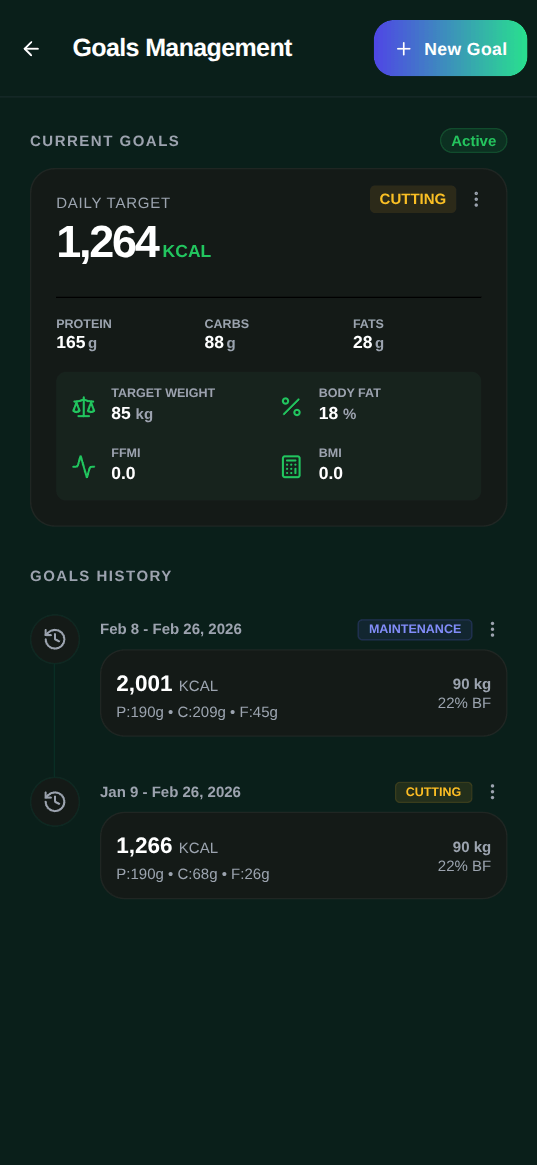
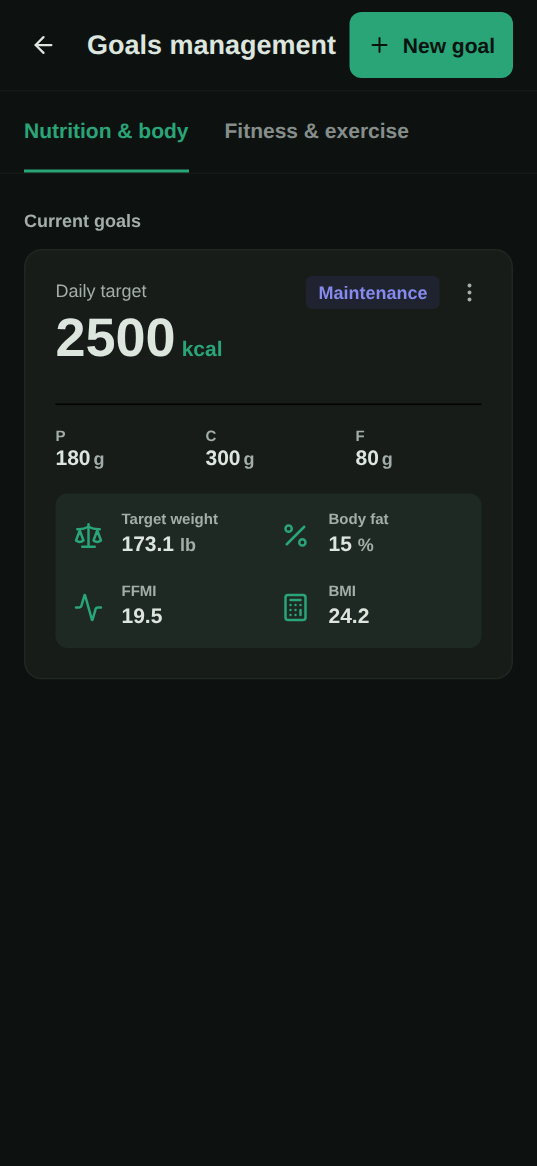
update screenshots

diff --git a/tests/website-carousel-screenshots.spec.ts b/tests/website-carousel-screenshots.spec.ts
@@ -57,9 +57,15 @@ test.describe('Website carousel screenshots', () => {
 
   test('Capture the carousel slides that need interaction', async ({ page }) => {
     const slides = [
+      'screenshot-4.png',
       'screenshot-5.png',
+      'screenshot-6.png',
+      'screenshot-7.png',
       'screenshot-8.png',
+      'screenshot-9.png',
       'screenshot-10.png',
+      'screenshot-11.png',
+      'screenshot-12.png',
       'screenshot-13.png',
       'screenshot-14.png',
     ];
@@ -81,6 +87,18 @@ test.describe('Website carousel screenshots', () => {
     await seedDemoData(page);
     await selectTheme(page, DEFAULT_THEME_BY_MODE.dark);
 
+    // "How do you want to build your routine?", the Create workout options.
+    if (wanted('screenshot-4.png')) {
+      await openFixtureModal('Open Create Workout Options');
+      await page
+        .getByText(copy('workouts', ['workouts', 'createWorkoutOptionsModal', 'title']), {
+          exact: true,
+        })
+        .first()
+        .waitFor();
+      await shot('screenshot-4.png', 2000);
+    }
+
     // Body metrics: Profile → Current stats → History (the weight trend and its entries).
     if (wanted('screenshot-5.png')) {
       await navigateTo(page, `${APP_URL}/profile`);
@@ -90,6 +108,22 @@ test.describe('Website carousel screenshots', () => {
         .first()
         .waitFor();
       await shot('screenshot-5.png', 2500);
+    }
+
+    // Goals management, opened from the day summary's menu on the food diary.
+    if (wanted('screenshot-6.png')) {
+      await navigateTo(page, `${APP_URL}/nutrition/food`);
+      await clickTopmost(page.getByTestId('daily-summary-menu'));
+      await clickTopmost(
+        page.getByText(copy('settings', ['settings', 'advancedSettings', 'manageGoalsData']), {
+          exact: true,
+        })
+      );
+      await page
+        .getByText(copy('goalsManagement', ['goalsManagement', 'title']), { exact: true })
+        .first()
+        .waitFor();
+      await shot('screenshot-6.png', 2000);
     }
 
     // Backups and data: Settings → Backups and data.
@@ -107,14 +141,32 @@ test.describe('Website carousel screenshots', () => {
       await shot('screenshot-8.png', 1500);
     }
 
-    // The coach's Fitness chat, which the demo data seeds with workout advice. The fixture mounts
-    // the real CoachModal (the nav's Chat button opens a "set up AI" sheet until a provider exists).
-    if (wanted('screenshot-13.png')) {
+    // The coach's three chats, which the demo data seeds with conversations: General (opens
+    // there), Nutrition and Fitness (workout advice). The fixture mounts the real CoachModal (the
+    // nav's Chat button opens a "set up AI" sheet until a provider exists), so no reply is awaited.
+    if (wanted('screenshot-7.png') || wanted('screenshot-9.png') || wanted('screenshot-13.png')) {
       await openFixtureModal('Open Coach Modal');
-      await clickTopmost(
-        page.getByText(copy('coach', ['coach', 'context', 'exercise']), { exact: true })
-      );
-      await shot('screenshot-13.png', 2500);
+      await page
+        .getByText(copy('coach', ['coach', 'context', 'general']), { exact: true })
+        .first()
+        .waitFor();
+      if (wanted('screenshot-7.png')) {
+        await shot('screenshot-7.png', 2500);
+      }
+
+      if (wanted('screenshot-9.png')) {
+        await clickTopmost(
+          page.getByText(copy('coach', ['coach', 'context', 'nutrition']), { exact: true })
+        );
+        await shot('screenshot-9.png', 2500);
+      }
+
+      if (wanted('screenshot-13.png')) {
+        await clickTopmost(
+          page.getByText(copy('coach', ['coach', 'context', 'exercise']), { exact: true })
+        );
+        await shot('screenshot-13.png', 2500);
+      }
     }
 
     // Logging a meal: the Log Meal sheet (serving size, date, meal type). The real one opens only
@@ -124,9 +176,9 @@ test.describe('Website carousel screenshots', () => {
       await shot('screenshot-14.png', 2500);
     }
 
-    // The rest timer: a live session with its first set done, the rest panel expanded. Last, because
-    // it changes the seeded data.
-    if (wanted('screenshot-10.png')) {
+    // A live session: the Guided view, then Inline with its first set done and the rest panel
+    // expanded. Last, because it changes the seeded data.
+    if (wanted('screenshot-10.png') || wanted('screenshot-11.png') || wanted('screenshot-12.png')) {
       await navigateTo(page, `${APP_URL}/workout/workouts`);
       const card = page
         .getByTestId('workout-card-preview')
@@ -136,16 +188,54 @@ test.describe('Website carousel screenshots', () => {
         card.getByRole('button', { name: copy('startWorkout', ['startWorkout', 'start']) })
       );
       await page.waitForURL(/workout-session/, { timeout: 30000 });
-      await clickTopmost(
-        page.getByText(copy('workoutSession', ['trainingFlow', 'inline']), { exact: true })
-      );
-      await page.waitForTimeout(1000);
-      await clickTopmost(page.locator('[data-testid^="set-"][data-testid$="-complete"]'));
-      const bar = page.getByTestId('session-rest-timer');
-      await bar.waitFor({ timeout: 15000 });
-      // The bar opens collapsed; its first button expands the countdown panel.
-      await clickTopmost(bar.getByRole('button').first());
-      await shot('screenshot-10.png', 1000);
+      if (wanted('screenshot-11.png') || wanted('screenshot-12.png')) {
+        await clickTopmost(
+          page.getByText(copy('workoutSession', ['trainingFlow', 'guided']), { exact: true })
+        );
+        const complete = page.getByRole('button', {
+          name: copy('workoutSession', ['trainingFlow', 'complete']),
+          exact: true,
+        });
+        await complete.first().waitFor();
+        // The pinned Complete button and rest bar cover the lower body on a phone this short:
+        // scroll the figures (weight, reps) clear of them.
+        await page.evaluate(() => {
+          const scrollers = [...document.querySelectorAll<HTMLElement>('*')].filter(
+            (node) => node.scrollHeight > node.clientHeight + 50 && node.clientHeight > 300
+          );
+          scrollers.sort((x, y) => y.scrollHeight - x.scrollHeight);
+          scrollers[0]?.scrollBy(0, 230);
+        });
+        await page.waitForTimeout(600);
+
+        if (wanted('screenshot-12.png')) {
+          await shot('screenshot-12.png', 2000);
+        }
+
+        // The effort sheet (RIR, RPE, partial reps), which replaced the old Log set modal.
+        if (wanted('screenshot-11.png')) {
+          await clickTopmost(
+            page.getByText(copy('workoutSession', ['trainingFlow', 'details']), { exact: true })
+          );
+          await page.waitForTimeout(1200);
+          await shot('screenshot-11.png', 1500);
+          await page.keyboard.press('Escape');
+          await page.waitForTimeout(800);
+        }
+      }
+
+      if (wanted('screenshot-10.png')) {
+        await clickTopmost(
+          page.getByText(copy('workoutSession', ['trainingFlow', 'inline']), { exact: true })
+        );
+        await page.waitForTimeout(1000);
+        await clickTopmost(page.locator('[data-testid^="set-"][data-testid$="-complete"]'));
+        const bar = page.getByTestId('session-rest-timer');
+        await bar.waitFor({ timeout: 15000 });
+        // The bar opens collapsed; its first button expands the countdown panel.
+        await clickTopmost(bar.getByRole('button').first());
+        await shot('screenshot-10.png', 1000);
+      }
     }
   });
 });

diff --git a/AGENTS.md b/AGENTS.md
@@ -69,7 +69,7 @@ The agent files hold the same pins (`utils/__tests__/agentOrchestration.test.ts`
 - `npm run screenshots:google-play`: build, capture the tablet frames of the Play listing (`tests/google-play-screenshots.spec.ts` via `playwright.google-play.config.ts`: `tablet-7` 768×1024, `tablet-10` 1100×1466; home, food diary, Goals management opened from the day summary menu, and a live Leg Day session in the Inline view, default dark theme) into `screenshots/google-play/<device>/`, then `screenshots:google-play:sync` (`scripts/sync-google-play-screenshots.js`) copies them over exactly these listing files and nothing else: `sevenInchScreenshots/01` food, `02` home, `03` workout, `04` goals; `tenInchScreenshots/02` home, `03` goals, `04` workout, `05` food (it refuses a capture of the wrong size). The phone screenshots (`screenshots:google-play-phone`) and the other tablet slots stay untouched. Publishing them is still the separate `scripts/play.sh up --with-images`, only when the user asks. `:run` skips the build.
 - `npm run screenshots:google-play-phone`: build, capture the eight phone screens in every bundled locale (`tests/google-play-phone-screenshots.spec.ts` via `playwright.google-play-phone.config.ts`, 360×780 at 3× = 1080×2340; default dark theme; metric for every locale but en-US; the browser stays en-US because demo seeding resolves exercises by English name, and the app language is switched through Settings) into `screenshots/google-play/phone/<locale>/`, then render the listing images with `scripts/google-play-phone-screenshots.js`, which runs the [Open Screenshot Generator](https://github.com/dotnetdreamer/open-screenshot-generator) CLI (MIT; the checkout in `OSG_DIR`, default `../open-screenshot-generator`, built with `npm install && npm run cli:build`; with no build it runs `npx open-screenshot-generator@OSG_VERSION`, default the `1.0.8` the design was made with; the browser is `MUSCLOG_CHROMIUM_PATH` or Playwright's Chromium) and writes `android/play/metadata/<locale>/images/phoneScreenshots/01–08.png` at 1080×1920 (24-bit PNG, no alpha). `:capture` and `:render` run one half. **The design is `screenshots/google-play/phone.osg.json`, an Open Screenshot Generator project (one artboard per screenshot: a 3D Pixel 10 Pro, a headline, a subheadline; the other languages are its `localized` overlay) whose images are `musclog:<path under screenshots/>` references, never embedded base64**: the script inlines them as data URLs into a temporary copy, embeds the fonts and maps every image back on save, so `npm run screenshots:google-play-phone:studio` opens the editor on the design and writes each edit back into the file until the window closes. Rules that are easy to break: (1) **every language is rendered as its own base-language project** (`projectForLocale` folds the overlay into the elements), one CLI run each: switching the 8-board project to a language reloads all eight 3D phones and the first board was captured with a black screen, and one 40-image export overran the CLI's 5-minute browser protocol timeout; the editor's auto-shrink of overflowing translations runs only in the overlay, so a translation too long for its box is clipped and must be checked in the renders; (2) **a capture is fitted to the phone's screen before it is placed** (`SCREEN_SHAPES`, `screenPadding`): the captures have no status bar, so a band copied from the top row holds the punch-hole camera (otherwise it sits on the app's header) and the sides are copied outwards to the screen's proportions; a new device needs its entry; (3) **an embedded font has no weight range**, so each Manrope weight is its own family (`Manrope ExtraBold`, `Manrope SemiBold`, text weight 400), fetched as Google Fonts' static TrueType with the Cyrillic subsets (`FONT_SOURCES`; the default file is Latin only and Russian fell back to a serif) and cached in `node_modules/.cache/google-play-phone-screenshots/`. The backdrop `screenshots/google-play/phone-background.svg` (8 × 2160 wide) is every board's background image with `backgroundImageApply: 'span'`, so each board shows its own slice. Boards are authored at 2160×3840 and each render is scaled down to 1080 wide, because the 3D phone renders in software WebGL without antialiasing. The render checks everything before writing anything (`designProblems`: at most 8 boards, Play's size rules, text and a capture for every language, every file present, a source for every font) and touches the listing only once all 40 images exist; pinned by `scripts/__tests__/googlePlayPhoneScreenshots.test.ts`. Captions must match the screen under them and what the app does, in all five locales. The 3D model and the fonts are fetched on first use, so rendering needs the network. Publishing is still `scripts/play.sh up --with-images`, only when the user asks.
 - `npm run generate-banners [locale ...]`: render the promotional banner once per Play locale into `screenshots/banner/<locale>/banner.png` (1920×905). `scripts/generate-banners.js` takes the hand-edited artwork `assets/banner-background.svg` (app icon, Loggy, phone frame; **never regenerate it**), swaps the headline and four bullets from `assets/banner-copy.json` and puts `screenshots/google-play/phone/<locale>/01-home.png` into the phone (capture it first with `npm run screenshots:google-play-phone:capture`). The script finds its targets by id (`#banner-headline` with two `<tspan>`s, `#banner-bullets` with four `<text>`s, `#phone-screen`) and fails if one is missing; copy is fitted by measuring with the real renderer (font size and letter spacing shrink together, an error below the 44/22 floor), never cut. librsvg draws the text from the machine's fonts (Manrope, falling back to Noto Sans), so install Manrope for the designed look. A new locale needs its copy entry (the file's validator names what is missing). Pinned by `scripts/__tests__/generateBanners.test.ts`. `npm run generate-banners:sync` (`scripts/sync-google-play-banners.js`) turns each banner into that locale's Play feature graphic, `android/play/metadata/<locale>/images/featureGraphic.png` (1024×500, opaque 24-bit PNG: the 2.12:1 banner is scaled to height and trimmed evenly at the sides, never stretched; a banner more than 6% off the target ratio is refused, and everything is checked before any file is written); publishing is still `scripts/play.sh up --with-images`, only when the user asks. Pinned by `scripts/__tests__/syncGooglePlayBanners.test.ts`.
-- `npm run screenshots:website`: build, then capture and publish every image the public website ships. `screenshots:themes` / `screenshots:carousel` run one half, via `playwright.website.config.ts`, `tests/website-{themes,carousel}-screenshots.spec.ts` and `tests/helpers/screenshotSession.ts`. Themes: the home screen in every `THEME_IDS` entry at 1083×2340 → `screenshots/themes/musclog-theme-<id>.png`; `scripts/sync-website-screenshots.js` (`screenshots:website:sync`) converts them to `public/images/themes/<id>.webp` and the themes blog post copies in `public/images/blog/2026/09/`. Carousel: `screenshots/phone/screenshot-*.png`, which `public/images/phone` symlinks. Two tests in one file: the routable slides (home, food, workouts → `screenshot-{1,2,3}.png`) and, in their own seeded context because they change data, the slides that need a tap or two: Body metrics (Profile → History, `-5`), Backups and data (`-8`), the live session's expanded rest panel (`-10`, the rest bar, not the legacy `rest-timer` screen), the coach's Fitness chat (`-13`, which shows the demo data's seeded workout-advice conversation through the modals fixture's real `CoachModal`, since the nav's Chat button opens a "set up AI" sheet without a provider) and the Log Meal sheet (`-14`, via the fixture: the real one opens only after an AI meal estimate). `MUSCLOG_CAROUSEL_ONLY=screenshot-5.png,screenshot-10.png` recaptures just those files. Still hand-curated and unreferenced by the site: `screenshot-4`/`-6`/`-7`/`-9`/`-11`/`-12`, `phone/slides/`, `tablet/` and the two README `.jpg`s. `MUSCLOG_CHROMIUM_PATH` works here too, as in the layout audit. `:run` variants skip the build for an existing `dist/`. A new screenshot type gets its own command and joins `screenshots:all`.
+- `npm run screenshots:website`: build, then capture and publish every image the public website ships. `screenshots:themes` / `screenshots:carousel` run one half, via `playwright.website.config.ts`, `tests/website-{themes,carousel}-screenshots.spec.ts` and `tests/helpers/screenshotSession.ts`. Themes: the home screen in every `THEME_IDS` entry at 1083×2340 → `screenshots/themes/musclog-theme-<id>.png`; `scripts/sync-website-screenshots.js` (`screenshots:website:sync`) converts them to `public/images/themes/<id>.webp` and the themes blog post copies in `public/images/blog/2026/09/`. Carousel: `screenshots/phone/screenshot-*.png`, which `public/images/phone` symlinks. Two tests in one file: the routable slides (home, food, workouts → `screenshot-{1,2,3}.png`) and, in their own seeded context because they change data, the slides that need a tap or two: Create workout options (`-4`, fixture), Body metrics (Profile → History, `-5`), Goals management (day summary menu, `-6`), the coach's General, Nutrition and Fitness chats (`-7`, `-9`, `-13`: the demo data's seeded conversations through the modals fixture's real `CoachModal`, since the nav's Chat button opens a "set up AI" sheet without a provider), Backups and data (`-8`), the live session's expanded rest panel (`-10`, the rest bar, not the legacy `rest-timer` screen), the live Guided view and its effort sheet (`-12`, `-11`; the old Log set modal survives only in the fixture) and the Log Meal sheet (`-14`, via the fixture: the real one opens only after an AI meal estimate). `MUSCLOG_CAROUSEL_ONLY=screenshot-5.png,screenshot-10.png` recaptures just those files. Not captures, so not in the pipeline: the two README header `.jpg`s (`screenshots/nutrition-tracking.jpg`, `workout-tracking.jpg`) are marketing composites (a phone screenshot placed in a designed scene) and stay hand-made. The old `phone/slides/`, `tablet/` and the theme banner were deleted (unreferenced; the tablet shots duplicated the `screenshots:google-play` output). `MUSCLOG_CHROMIUM_PATH` works here too, as in the layout audit. `:run` variants skip the build for an existing `dist/`. A new screenshot type gets its own command and joins `screenshots:all`.
 - `npm run promo-video`: render the YouTube promo (1920×1080, 30 fps, 58 s, H.264 + AAC) to `promo-video/out/musclog-promo.mp4`; `npm run promo-video:studio` opens Remotion Studio to preview and scrub it. **`promo-video/` is a separate package** (Remotion 4 + three.js, its own `node_modules` and lockfile, React 18), built on the Open Screenshot Generator's Remotion promo toolkit; it is outside the app's typecheck, ESLint, Metro (`resolver.blockList`) and EAS uploads, and has its own `npm --prefix promo-video run typecheck`. Only sources are committed: `promo-video/scripts/prepare-assets.js` rebuilds `promo-video/public/` on every render from tracked files (the en-US Play phone captures and the theme shots, each given a status-bar band so the punch-hole sits on plain colour; UI cards cut from those captures by the `CARDS` boxes; the website's Loggy SVGs; the default icon; the Play backdrop), so re-capture first and the video follows. `promo-video/scripts/gen-music.js` synthesizes the original 120 BPM track (one bar = 60 frames, so the scene timeline in `src/Promo.tsx` is counted in bars and its arrangement follows the scenes); copy lives in `src/scenes/`. Rules that are easy to break: a phone texture must redraw the canvas before releasing its `delayRender` (`<ThreeCanvas>` only draws when the frame changes while rendering, so a late texture rendered as a black screen), and Loggy's CSS animation is scrubbed per frame with a negative `animation-delay` on inlined, id-prefixed SVG (an `<img>` would run on the wall clock). Check frames with `npx remotion still` from a bundle, not the system ffmpeg (Fedora's cannot decode H.264). Pinned by `scripts/__tests__/promoVideoAssets.test.ts` (every source exists, every card box fits its capture, every asset the scenes name is produced, and the themes scene shows exactly `THEME_IDS`).
 - `npm run layout:audit`: build (`screenshots:build`, which the `/app/test/modals` fixture needs), then audit the web build for cramped layouts and write `layout-audit-report/report.html` (open it: every audited page as a screenshot, grouped by screen, one row per language and one card per phone size, findings outlined, click for the list), `report.md`, `report.json` and one JPEG per page under `screens/`. `layout:audit:run` skips the build for an existing `dist/`; `layout:audit:android` audits a connected device (experimental); `layout:scan` ranks source files by static risk signals. Full rules in `docs/DESIGN.md` → Layout audit.
   - **Profiles come from `docs/SCREEN_SIZES.md`, expanded by `tests/layoutAudit/devices.ts`.** The document lists physical pixels, so each resolution carries ASSUMED densities (`ASSUMED_DENSITIES`, every plausible one kept so the narrowest layout is tested; a new resolution needs a row or gets `fallbackDensity`) and large text is the progression config's emulation (viewport ÷ font scale, device scale factor × font scale). `MUSCLOG_LAYOUT_SET` picks `quick` (default: narrowest and shortest phone at 1.3×, narrowest at 1×), `phones` or `all`.

diff --git a/README.md b/README.md
@@ -52,17 +52,17 @@ It is built with React Native and Expo (Android, iOS and web) and stores data lo
 ## Screenshots
 
 <div align="center">
-  <img src="screenshots/phone/screenshot-1.png" alt="App Dashboard" width="200"/>
-  <img src="screenshots/phone/screenshot-2.png" alt="Workout Logging" width="200"/>
-  <img src="screenshots/phone/screenshot-3.png" alt="Nutrition Tracking" width="200"/>
-  <img src="screenshots/phone/screenshot-4.png" alt="Progress Charts" width="200"/>
+  <img src="screenshots/phone/screenshot-1.png" alt="Home overview" width="200"/>
+  <img src="screenshots/phone/screenshot-2.png" alt="Food diary" width="200"/>
+  <img src="screenshots/phone/screenshot-3.png" alt="Workout library" width="200"/>
+  <img src="screenshots/phone/screenshot-4.png" alt="Create workout" width="200"/>
 </div>
 
 <div align="center">
-  <img src="screenshots/phone/screenshot-5.png" alt="AI Coach Chat" width="200"/>
-  <img src="screenshots/phone/screenshot-6.png" alt="Food Search" width="200"/>
-  <img src="screenshots/phone/screenshot-7.png" alt="Cycle Tracking" width="200"/>
-  <img src="screenshots/phone/screenshot-8.png" alt="Settings" width="200"/>
+  <img src="screenshots/phone/screenshot-5.png" alt="Body metrics" width="200"/>
+  <img src="screenshots/phone/screenshot-6.png" alt="Goals management" width="200"/>
+  <img src="screenshots/phone/screenshot-7.png" alt="AI coach chat" width="200"/>
+  <img src="screenshots/phone/screenshot-8.png" alt="Backups and data" width="200"/>
 </div>
 
 ---
